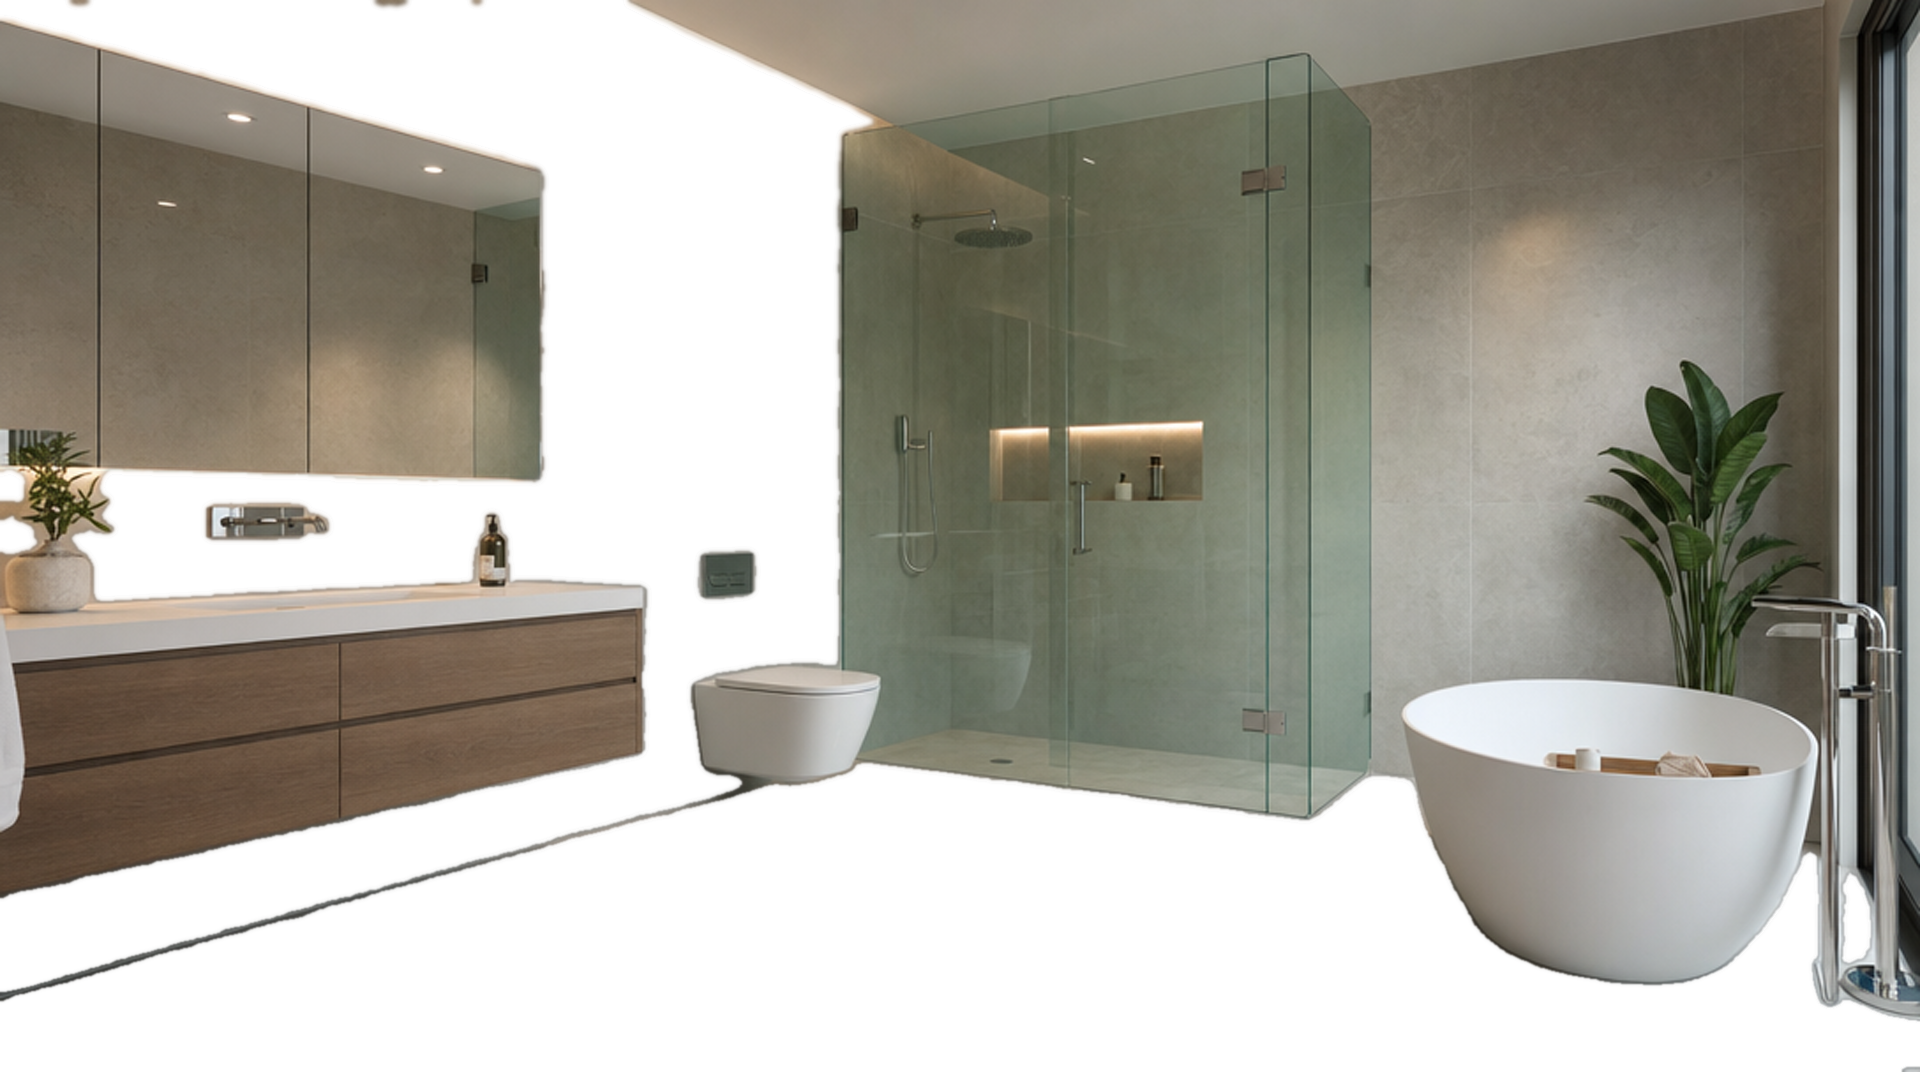
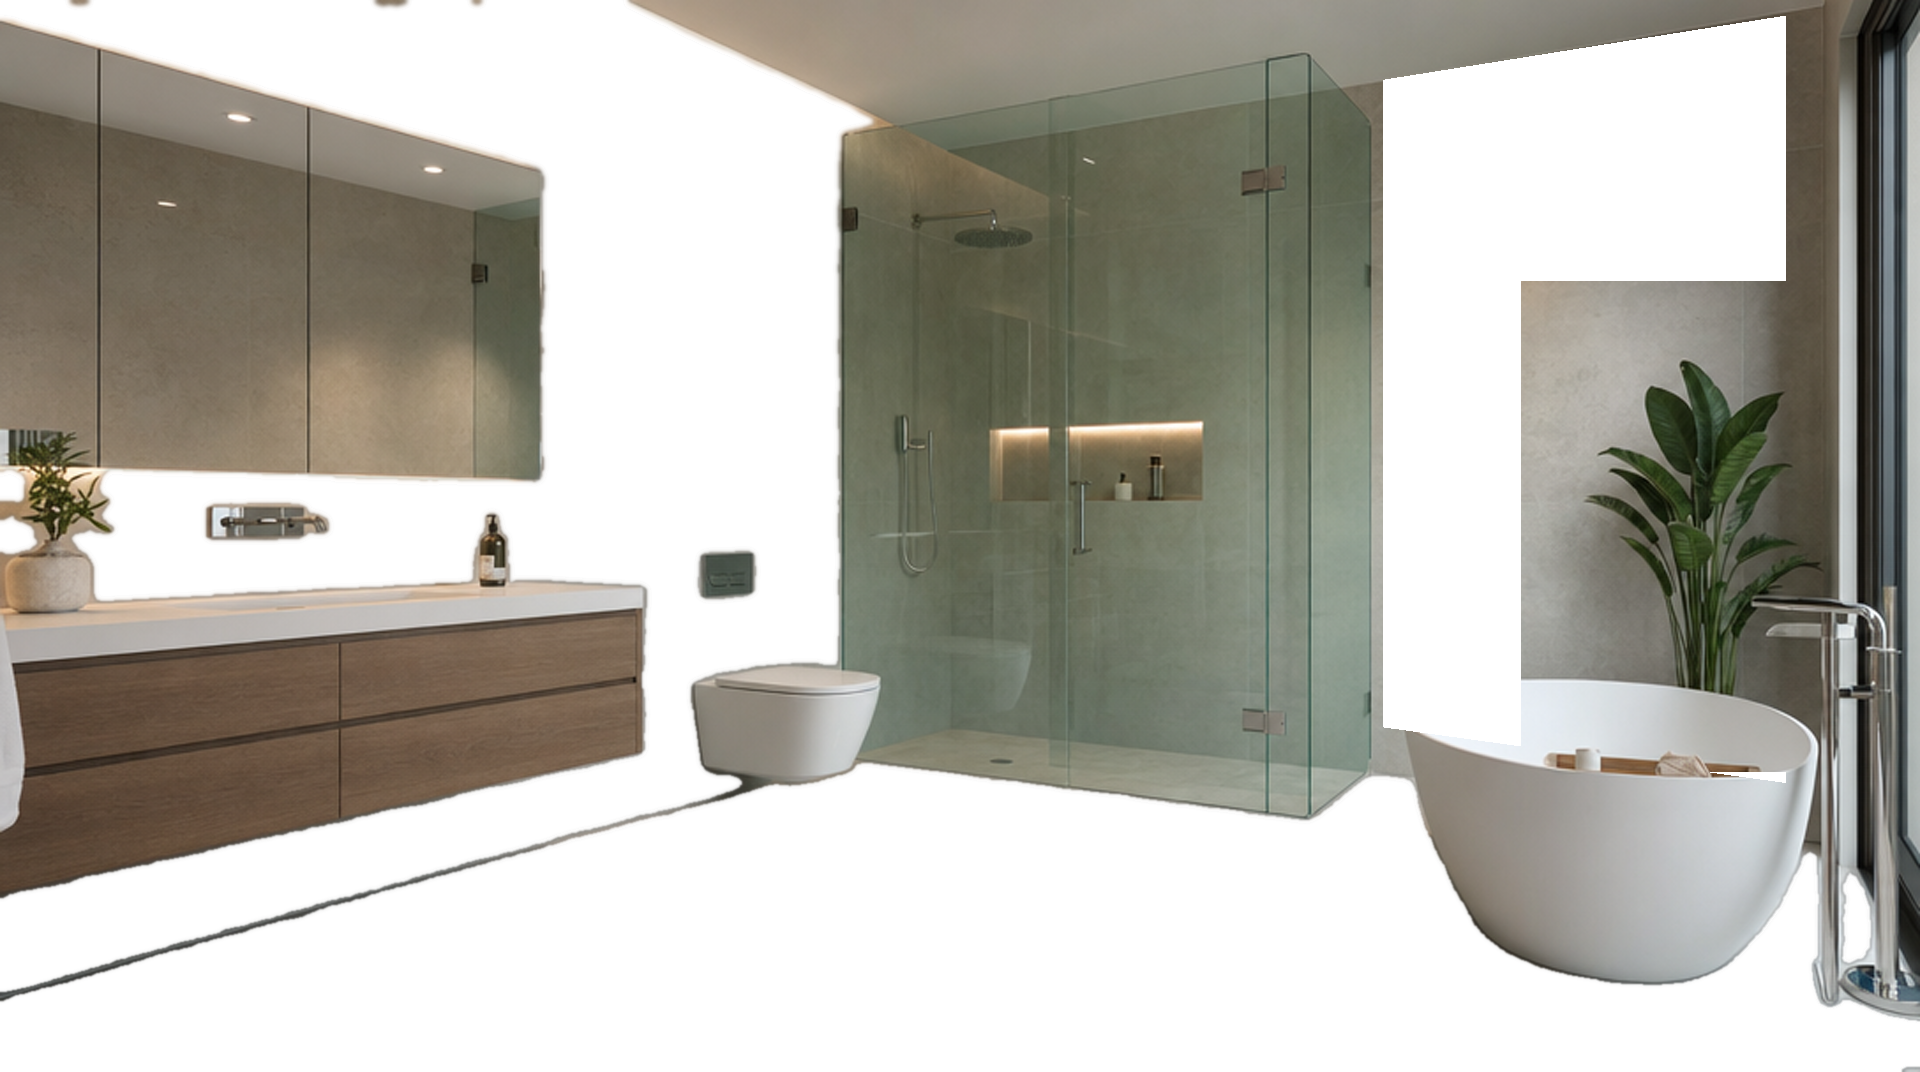
feat(2d): three connected wall bands for the Large Bathroom
The Large Bathroom's wall is now three horizontal bands — 30% / 40% / 30% of
wall height — each taking its own tile, running continuously across both wall
planes. The far wall, previously not tileable at all, is now included.

Bands are cut PER COLUMN, not per row. The room is shot in perspective: the
vanity wall recedes toward the corner while the far wall faces the camera, so a
line of constant height in the room is a sloping line in the photograph. Cutting
at flat image rows would step visibly where the two planes meet. Splitting each
column across its own vertical extent gives level bands on the frontal wall,
perspective-correct bands on the receding one, and an unbroken run through the
corner.

Extent is measured against the uncut wall PLANE, not the holed mask. Measuring
against the mask was wrong: a column passing through the planter has its lowest
masked pixel up among the leaves, which compressed that column's whole 30/40/30
split into the top of the wall and made the bands step around the plant.

Far wall reclaimed. The supplied mask stopped at the shower (x≈0.44), leaving
the entire far wall untileable. It is frontal and unobstructed, so it is added
as a quad whose corners are MEASURED rather than eyeballed — ceiling 0.070→0.022
and floor 0.684→0.723 between x=0.74 and x=0.90, located by the strongest
vertical luminance step per column. Wall surface goes from 331,696 to 489,080
px, up 47%. The planter is cut back out so it still occludes.
[…]

Changed region(s): [[0.7188, 0.0, 0.9375, 0.6772], [0.9062, 0.708, 0.9375, 0.7388]]

diff --git a/src/data/rooms2d.js b/src/data/rooms2d.js
@@ -55,7 +55,7 @@ export const rooms2d = [
   {
     id: 'large-bathroom-b',
     name: 'Large Bathroom',
-    blurb: 'PRD Model B · floor + wall',
+    blurb: 'PRD Model B · 3 wall bands + floor',
     baseUrl: W('large-bathroom-b', 'base'),
     overlayUrl: W('large-bathroom-b', 'overlay-locked'),
     roomWidthMM: 4000,
@@ -63,9 +63,22 @@ export const rooms2d = [
     maskFeatherPx: 2.0,
     lightStrength: 0.72,
     grout: { enabled: false, color: '#d4cdc0' },
+    // The wall runs in three horizontal bands — 30% / 40% / 30% of wall height
+    // — across BOTH planes: the receding vanity wall and the frontal far wall,
+    // continuous through the corner. Cut per column by
+    // scripts/build_large_bathroom_walls.mjs, which measures each band against
+    // the uncut wall plane so a band stays level whether or not a fixture
+    // stands in front of it. See that script for why a flat row-wise cut would
+    // step at the corner.
+    //
+    // Note the bands are 30/40/30 by HEIGHT, not by pixel count: the vanity,
+    // toilet and planter eat much more of the lower band than the upper one,
+    // so the painted areas come out around 41% / 36% / 23%.
     zones: [
+      { id: 'wall-upper', label: 'Upper', surface: 'Wall', maskUrl: W('large-bathroom-b', 'mask-wall-upper') },
+      { id: 'wall-middle', label: 'Middle', surface: 'Wall', maskUrl: W('large-bathroom-b', 'mask-wall-middle') },
+      { id: 'wall-lower', label: 'Lower', surface: 'Wall', maskUrl: W('large-bathroom-b', 'mask-wall-lower') },
       { id: 'floor', label: 'Floor', surface: 'Floor', maskUrl: W('large-bathroom-b', 'mask-floor') },
-      { id: 'wall', label: 'Wall', surface: 'Wall', maskUrl: W('large-bathroom-b', 'mask-wall') },
     ],
   },
   // Model C — Staircase (full stair surfaces only — walls stay photo-locked)
